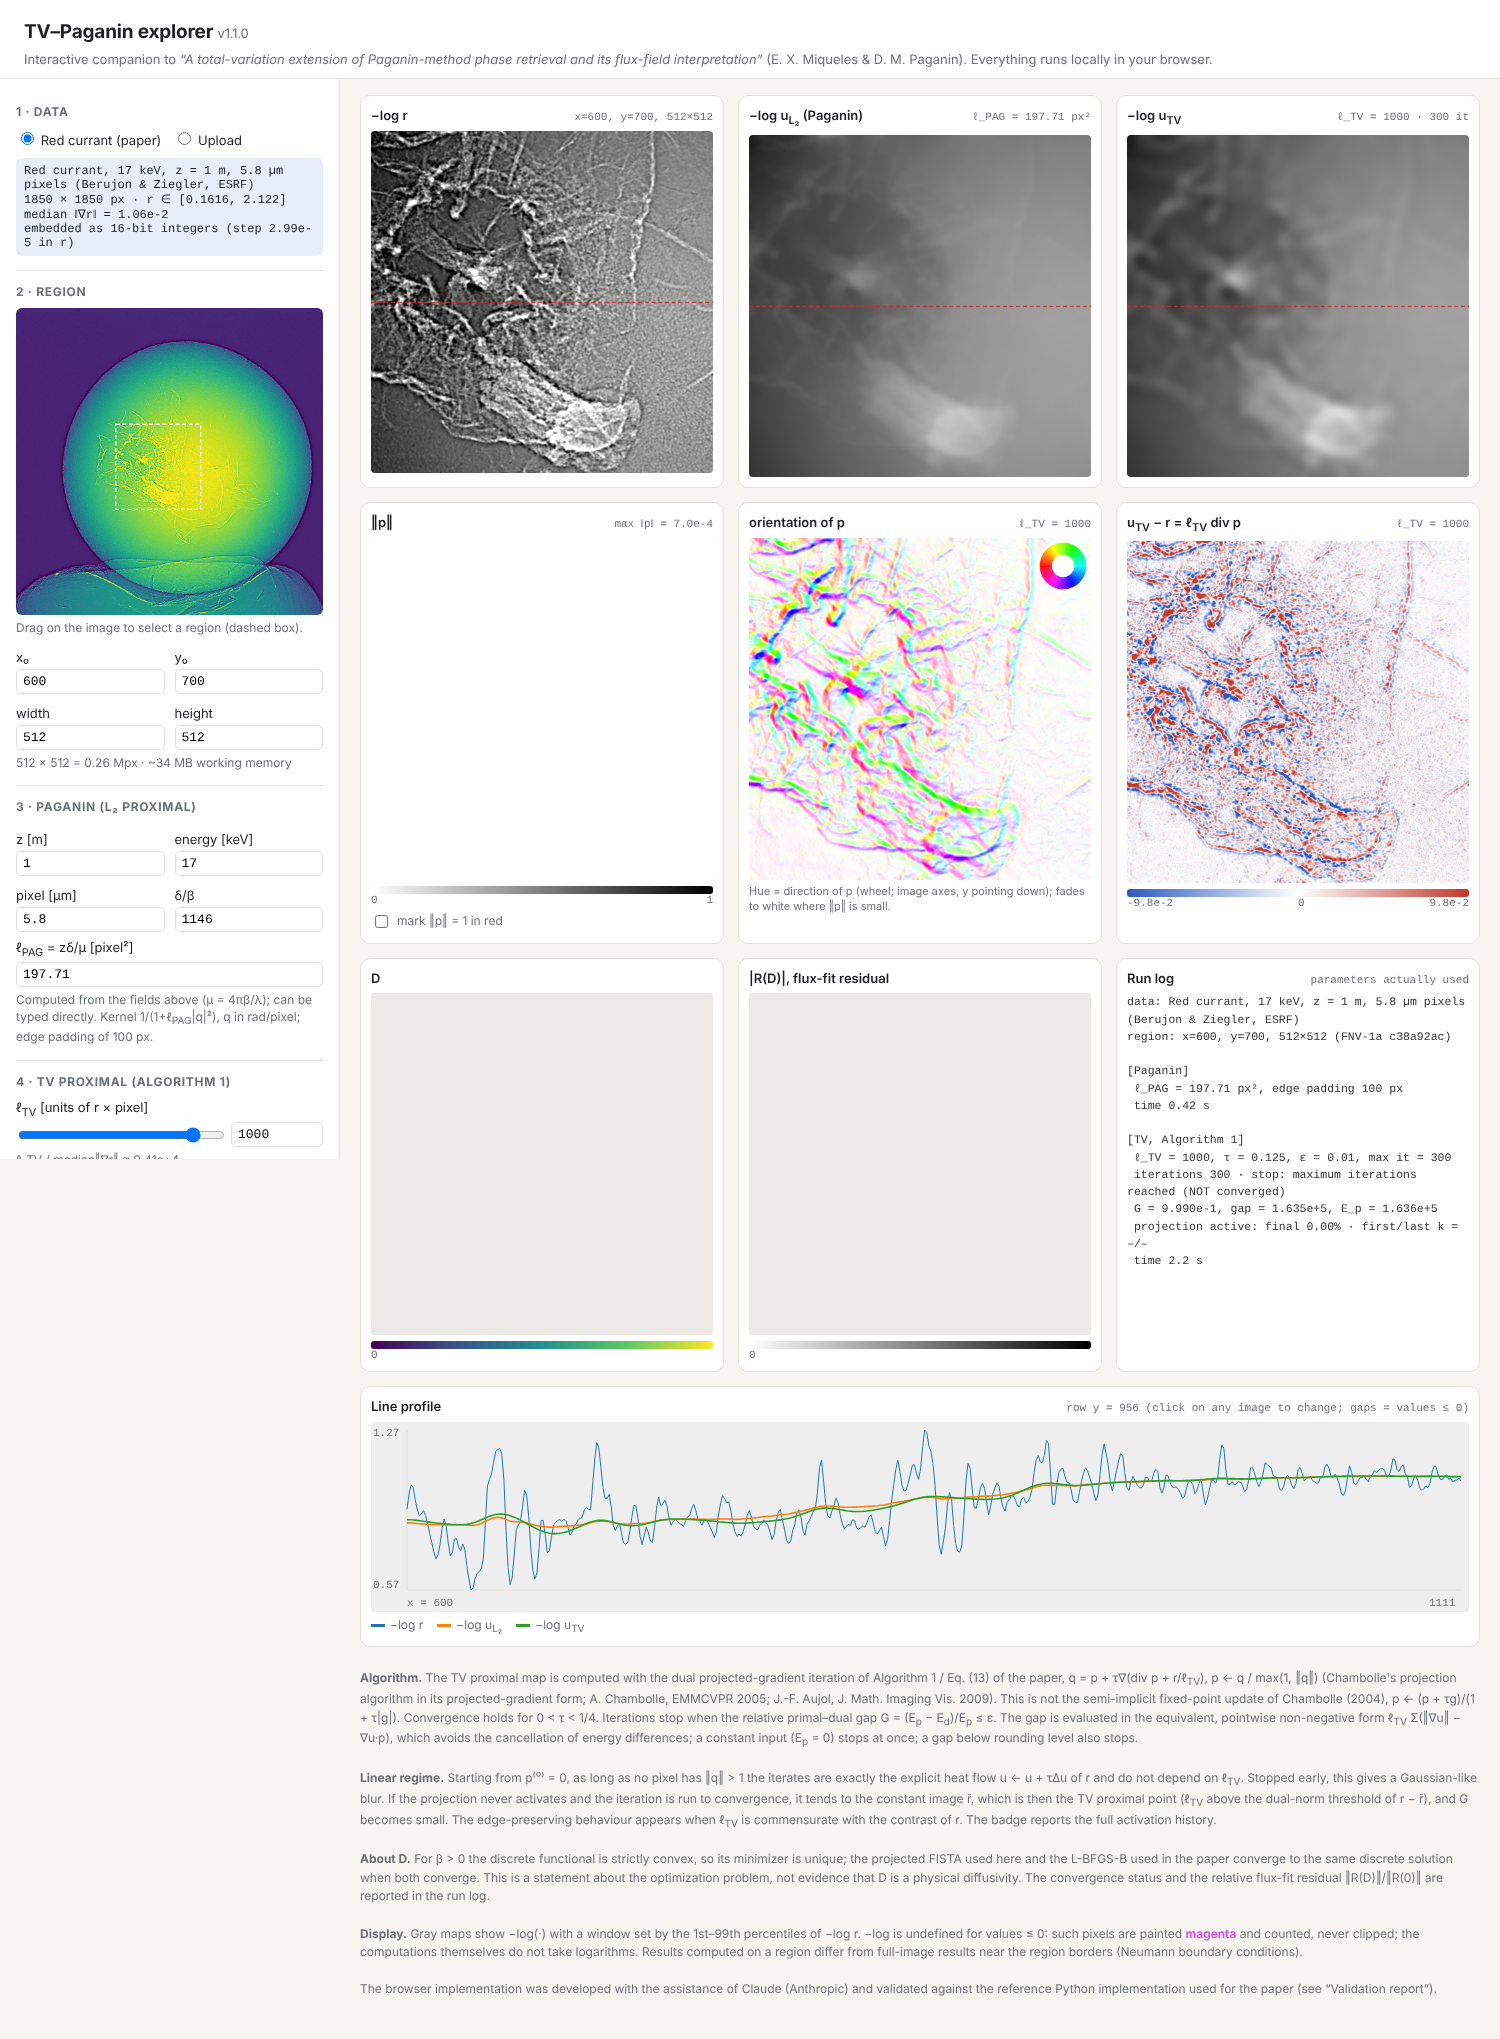
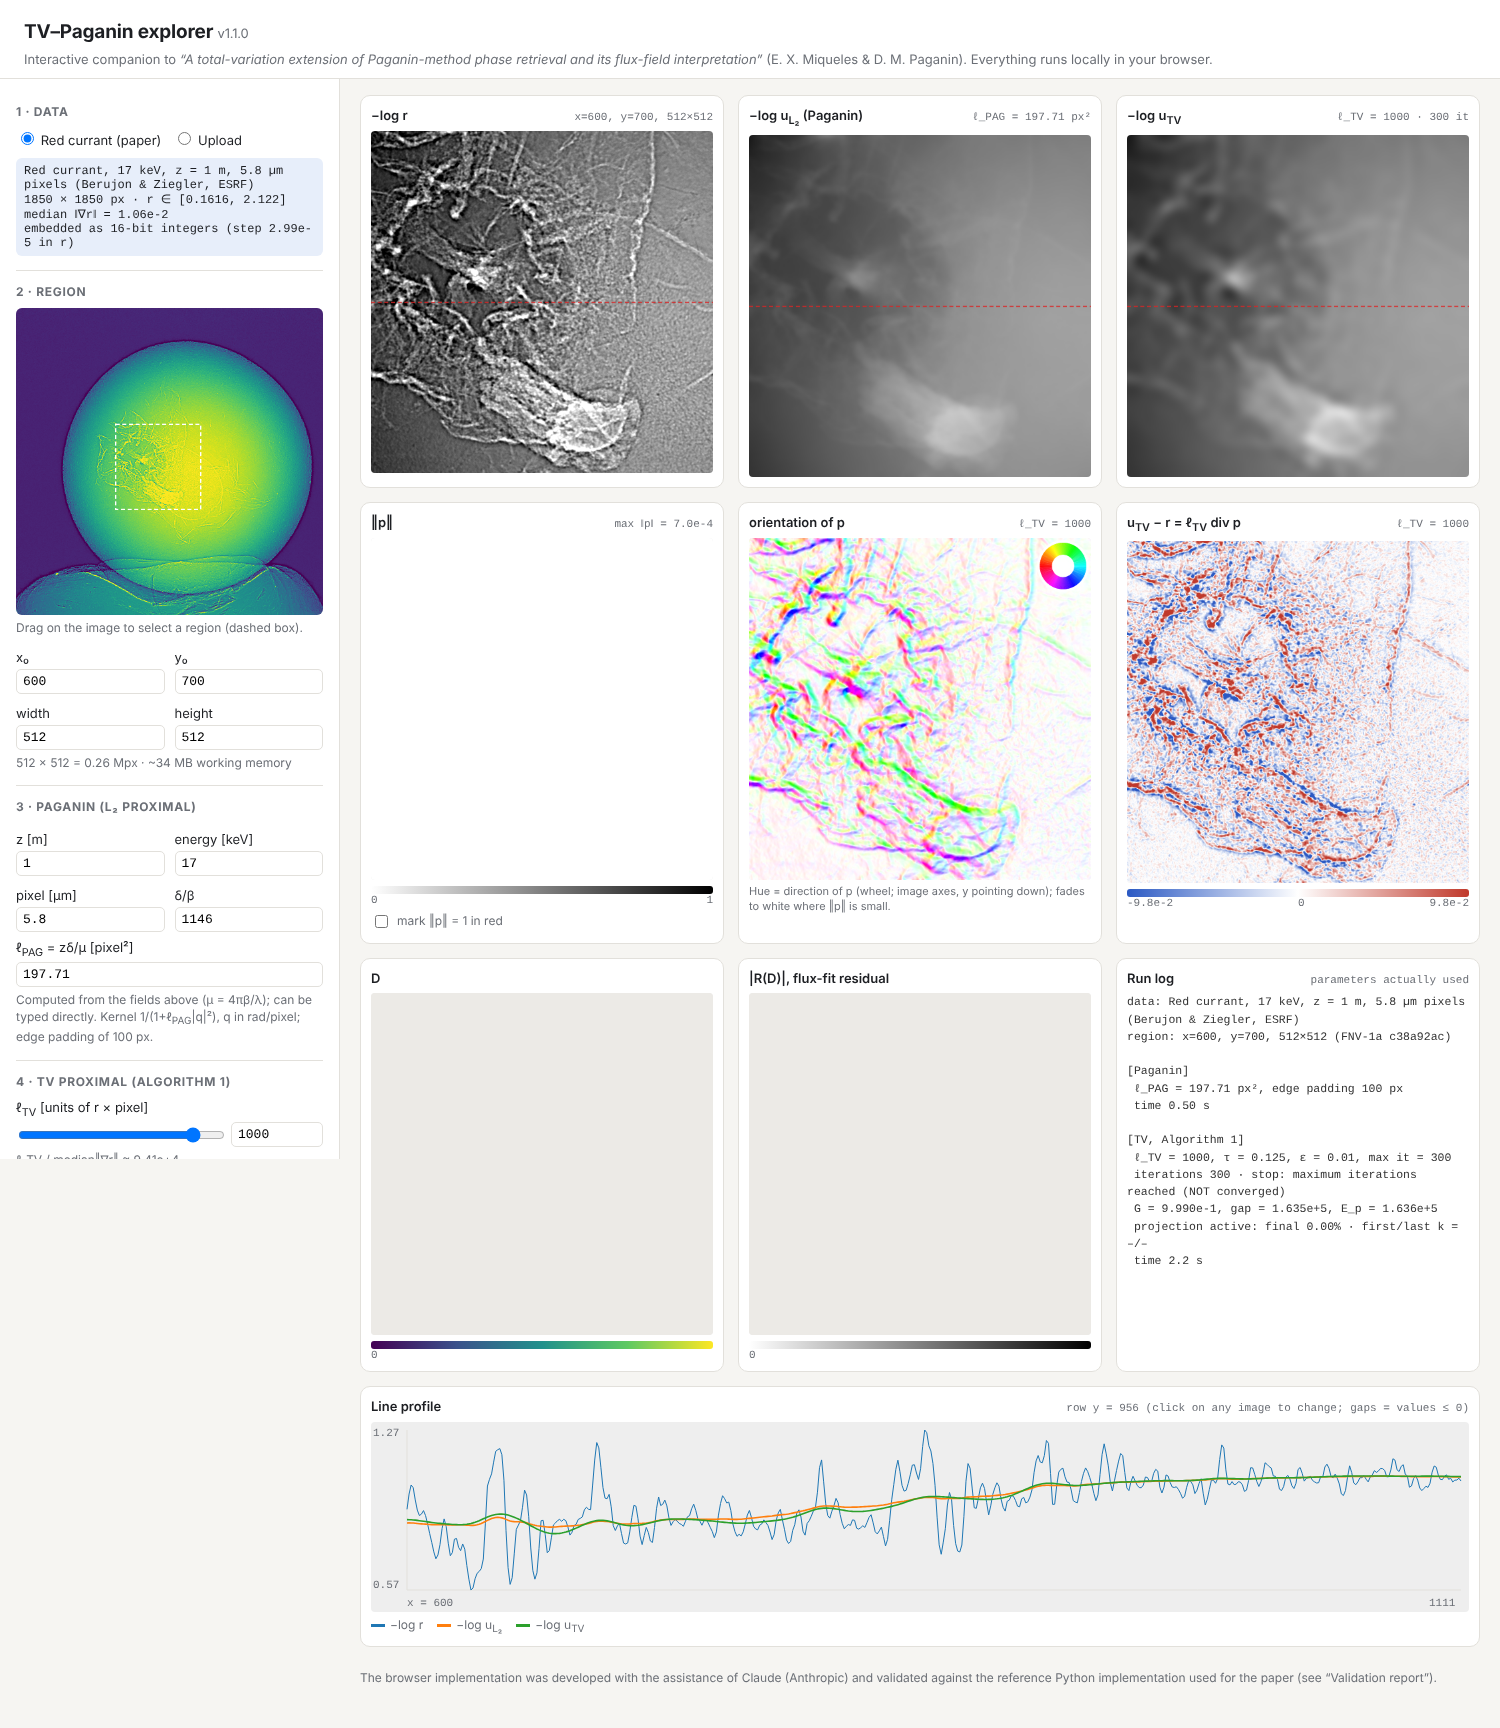
Add files via upload

Changed region(s): [[0.0, 0.0, 0.9813, 1.0], [0.368, 0.4062, 0.46, 0.4375]]

diff --git a/validation/validation_browser.md b/validation/validation_browser.md
@@ -1,6 +1,6 @@
 | result | browser test (Chromium, headless) | detail |
 |---|---|---|
-| PASS | Run all (512² preset): TV and D converge, TV regime reported | D done · 330 iterations · status converged · ‖R(D)‖/‖R(0)‖ = 0.460 · 2.2 s / TV regime: flux limit active on 25.8% of pixels at the final |
+| PASS | Run all (512² preset): TV and D converge, TV regime reported | D done · 330 iterations · status converged · ‖R(D)‖/‖R(0)‖ = 0.460 · 2.0 s / TV regime: flux limit active on 25.8% of pixels at the final |
 | PASS | run log lists parameters and convergence |  |
 | PASS | item 1: changing ℓ_TV marks u_TV/p and D as STALE | ℓ_TV = 0.1 · 1477 it · STALE: parameters changed |
 | PASS | item 1: "D only" refuses to mix u,p from ℓ_TV = 0.1 with ℓ_TV = 0.05 | error: the TV controls differ from the last TV run (ℓ_TV = 0.1, τ = 0.125, ε = 0.01, max i |
@@ -18,6 +18,6 @@
 | PASS | item 9: a negative pixel is painted magenta | [217, 70, 239] |
 | PASS | item 3: constant image stops at k = 1 with G = 0 (no NaN) | TV done · 1 iterations · stop: E_p = 0 (constant input; u = r is optimal) · G = 0.00e+0 ·  |
 | PASS | item 4: ℓ_TV = 1000 → "linear regime throughout" (history-based) | Linear regime throughout (k = 1…300): the projection was never active, |
-| PASS | item 10: metadata JSON has version, region, parameters, stopping rule and status | file tvpag_20261110-203331_x600_y700_512x512_metadata.json |
-| PASS | item 10: array file names share the run id with the metadata | tvpag_20261110-203331_x600_y700_512x512_uTV.npy |
+| PASS | item 10: metadata JSON has version, region, parameters, stopping rule and status | file tvpag_20261123-153345_x600_y700_512x512_metadata.json |
+| PASS | item 10: array file names share the run id with the metadata | tvpag_20261123-153345_x600_y700_512x512_uTV.npy |
 | PASS | no JavaScript errors during the session |  |

diff --git a/validation/validation_core.md b/validation/validation_core.md
@@ -12,12 +12,12 @@ D (reference, 'converged') — L-BFGS-B with ftol = gtol = 1e-12, tol_loss = 1e-
 | quantity | relative L2 error | max abs error | notes |
 |---|---|---|---|
 | input r (uint16 dequantization) | 0.00e+0 | 0.00e+0 |  |
-| u_L2 (Paganin) | 5.05e-16 | 8.88e-16 | 458 ms |
-| u_TV (Algorithm 1) | 0.00e+0 | 0.00e+0 | iterations JS = 8046 / Python = 8046; stop: relative_gap; G = 1.000e-3; 55.3 s |
+| u_L2 (Paganin) | 5.05e-16 | 8.88e-16 | 417 ms |
+| u_TV (Algorithm 1) | 0.00e+0 | 0.00e+0 | iterations JS = 8046 / Python = 8046; stop: relative_gap; G = 1.000e-3; 55.2 s |
 | p (dual field) | 0.00e+0 | 0.00e+0 | sat JS=40.44% / Py=40.44% |
 | D, beta=0.1 | 2.08e-6 | 4.09e-5 | JS: 120 it (converged), 0.8 s; F_JS/F_Py-1 = -1.58e-12; paper-setting L-BFGS-B vs converged: 0.00e+0 |
-| D, beta=0.01 | 4.12e-6 | 2.37e-4 | JS: 450 it (converged), 3.3 s; F_JS/F_Py-1 = -1.38e-11; paper-setting L-BFGS-B vs converged: 1.19e-4 |
-| D, beta=0.001 | 1.45e-5 | 6.90e-4 | JS: 1160 it (converged), 8.0 s; F_JS/F_Py-1 = -1.99e-10; paper-setting L-BFGS-B vs converged: 6.10e-4 |
+| D, beta=0.01 | 4.12e-6 | 2.37e-4 | JS: 450 it (converged), 3.0 s; F_JS/F_Py-1 = -1.38e-11; paper-setting L-BFGS-B vs converged: 1.19e-4 |
+| D, beta=0.001 | 1.45e-5 | 6.90e-4 | JS: 1160 it (converged), 6.5 s; F_JS/F_Py-1 = -1.99e-10; paper-setting L-BFGS-B vs converged: 6.10e-4 |
 
 ## B. Effect of the 16-bit quantization of the embedded data (Python only: quantized vs original float64 input, same pipeline)
 
